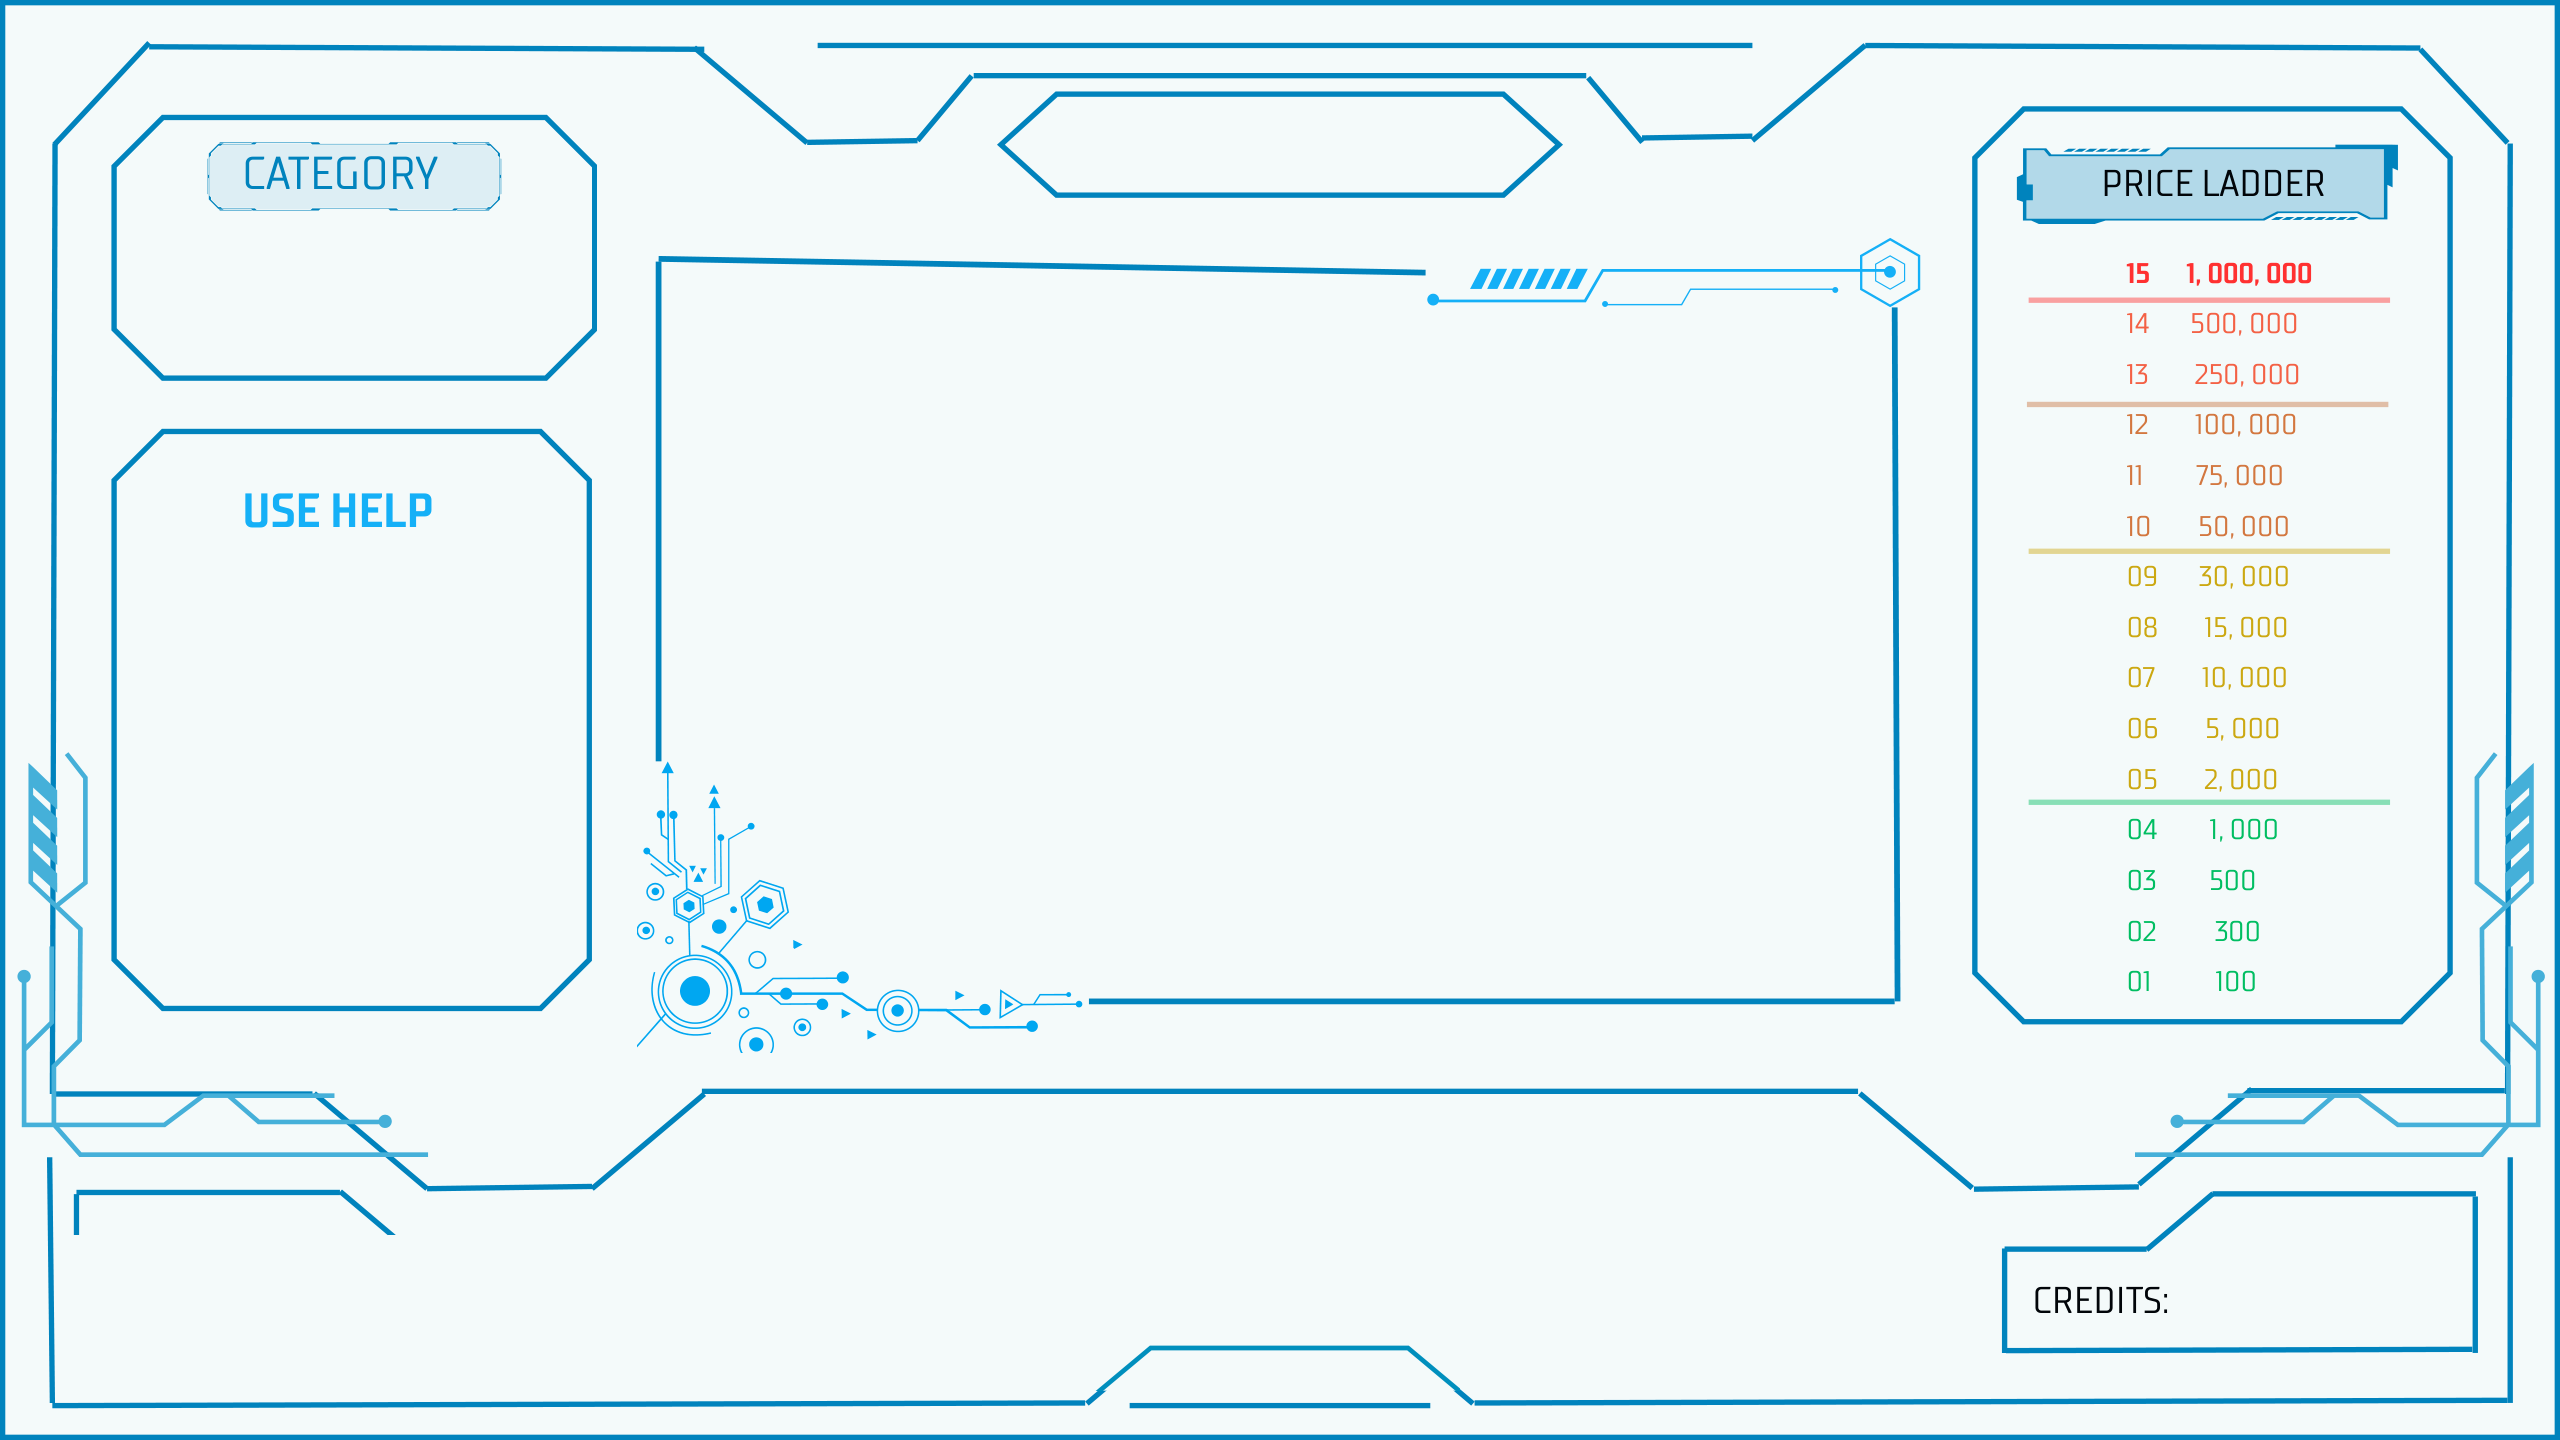
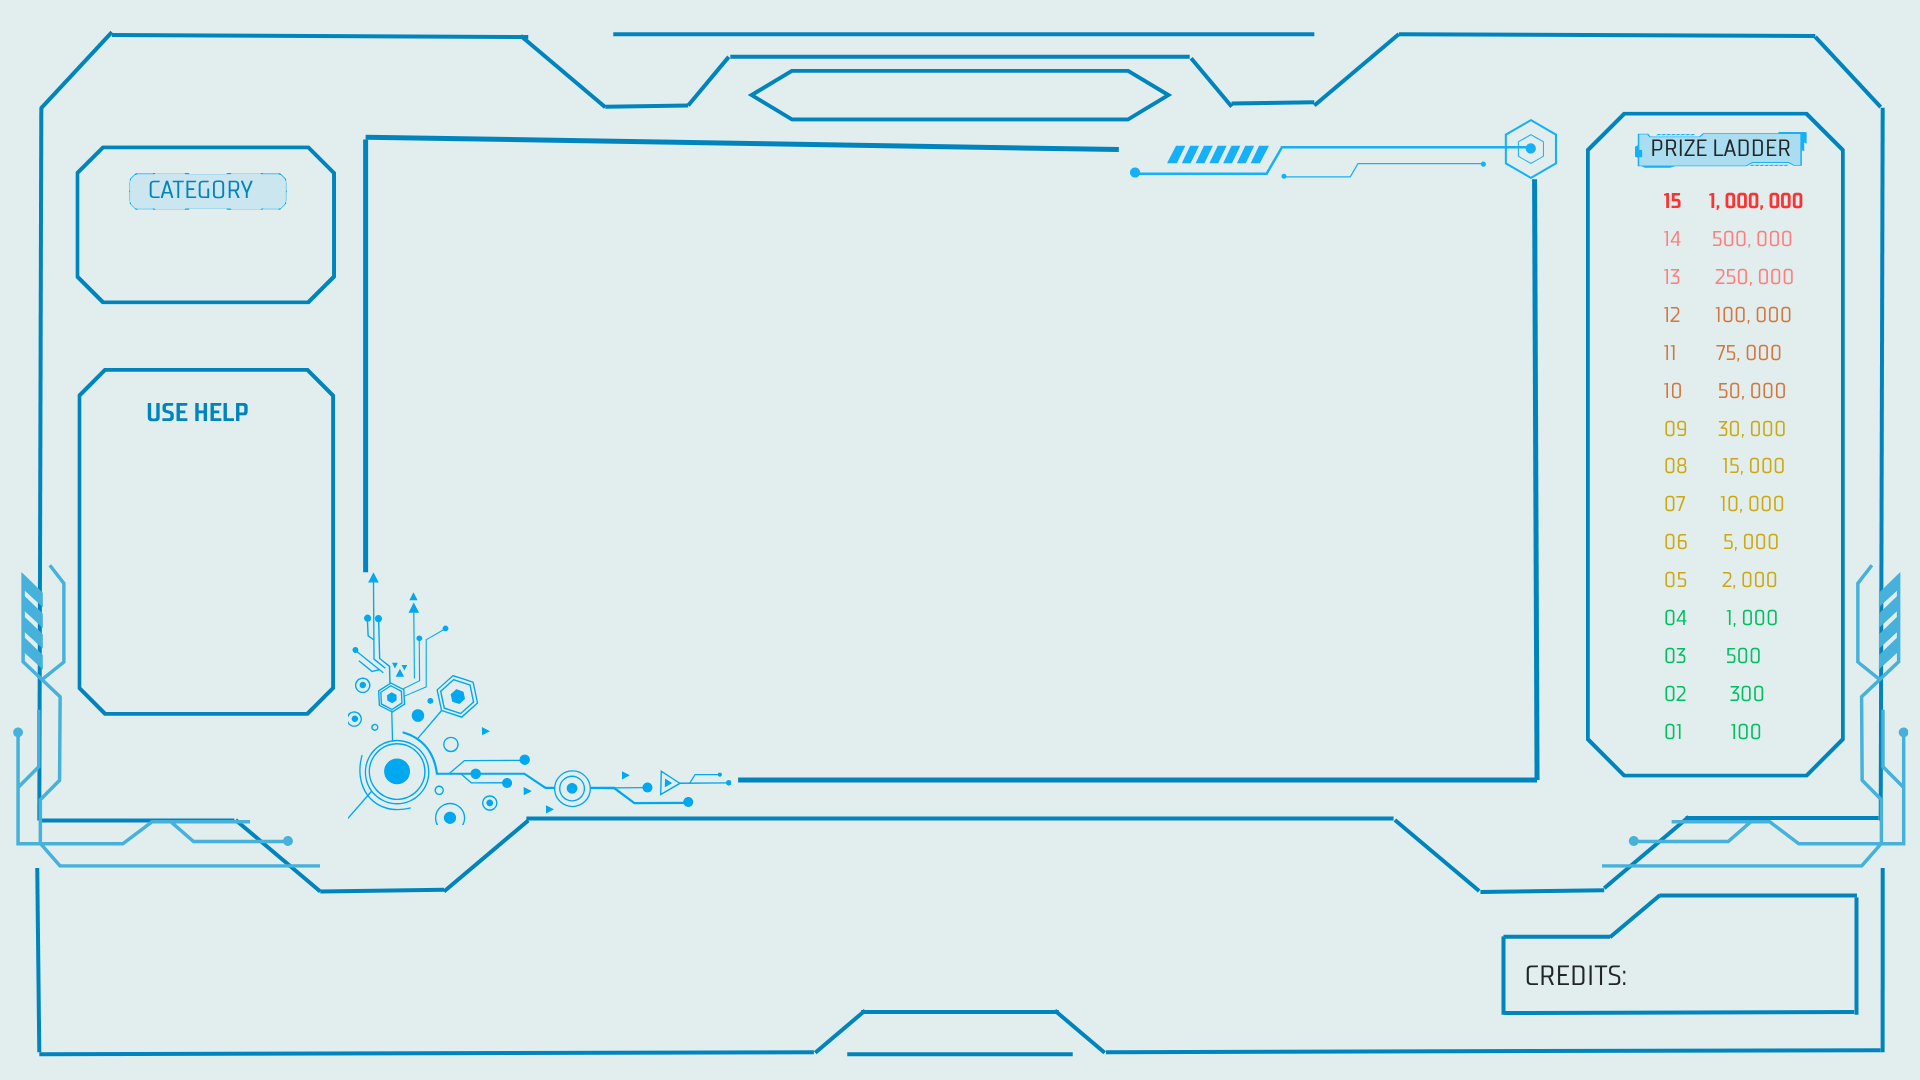
Smoothen out light theme color
- Changed the background color of the light theme from #f4fafa to #e2eeee to make it less straining to the eye.
- Updated the assets in light theme affected by the change

diff --git a/src/main/java/com/beamillionaire/ui/GamePresentation.java b/src/main/java/com/beamillionaire/ui/GamePresentation.java
@@ -237,7 +237,7 @@ public final class GamePresentation implements PresentationActions, AutoCloseabl
     private void applyTheme(){
         root.getStyleClass().removeAll("theme-dark","theme-light");
         root.getStyleClass().add("theme-"+themeKey());
-        root.setStyle("-fx-background-color: "+(theme==Theme.DARK?"#02060a":"#f4fafa")+";");
+        root.setStyle("-fx-background-color: "+(theme==Theme.DARK?"#02060a":"#e2eeee")+";");
     }
     private void observeScene(Scene scene){
         if(observedScene!=null)observedScene.windowProperty().removeListener(windowListener);
@@ -293,7 +293,7 @@ public final class GamePresentation implements PresentationActions, AutoCloseabl
         composeBackground(pane,screen,renderingView.motion,true);
     }
     void composeBackground(Pane pane,String screen,MotionScope scope,boolean categoryEntrance){
-        Runnable backdrop=()->pane.setStyle("-fx-background-color: "+(theme==Theme.LIGHT?"#f4fafa":screen.equals("gameplay")?"#02060a":"#000000")+";");
+        Runnable backdrop=()->pane.setStyle("-fx-background-color: "+(theme==Theme.LIGHT?"#e2eeee":screen.equals("gameplay")?"#02060a":"#000000")+";");
         backdrop.run();onAppearance(backdrop);
         if(screen.equals("gameplay"))GameplayFrame.add(this,pane);
         for(var asset:assets.layers(themeKey(),screen)){
